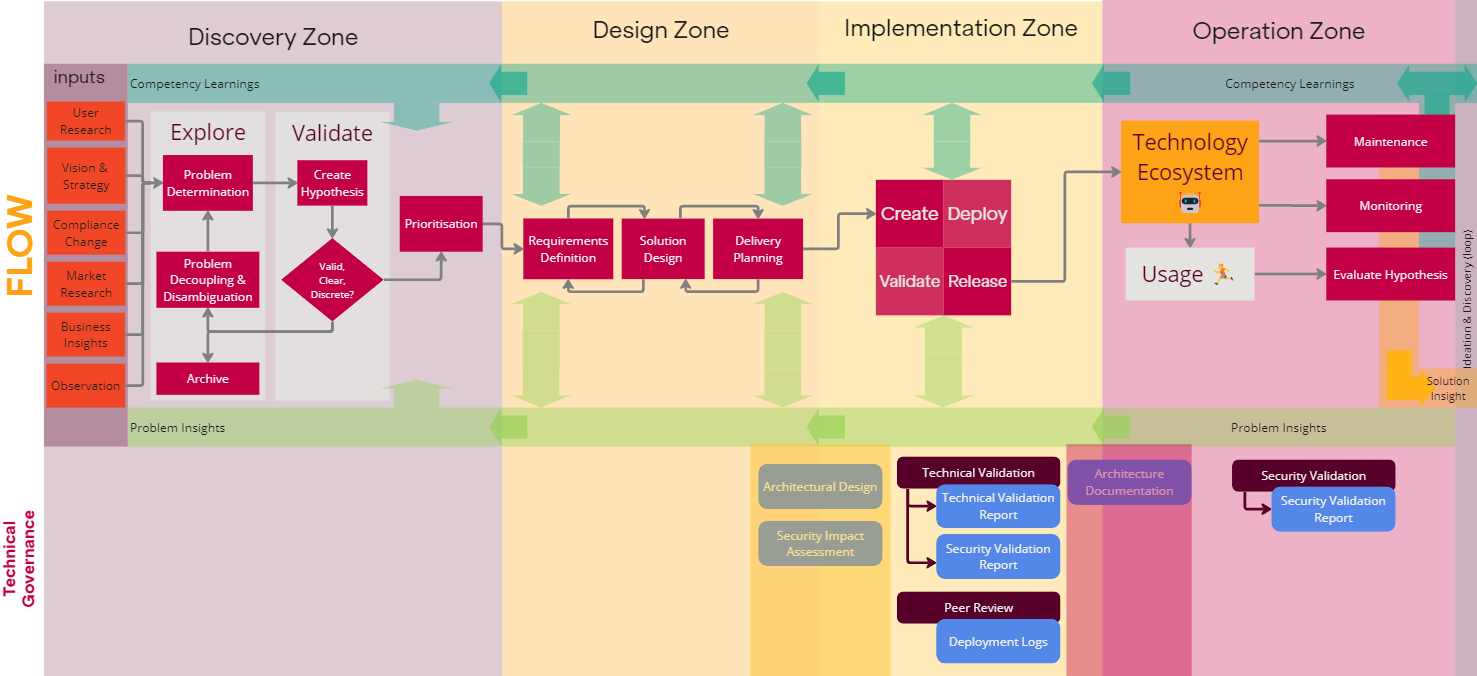
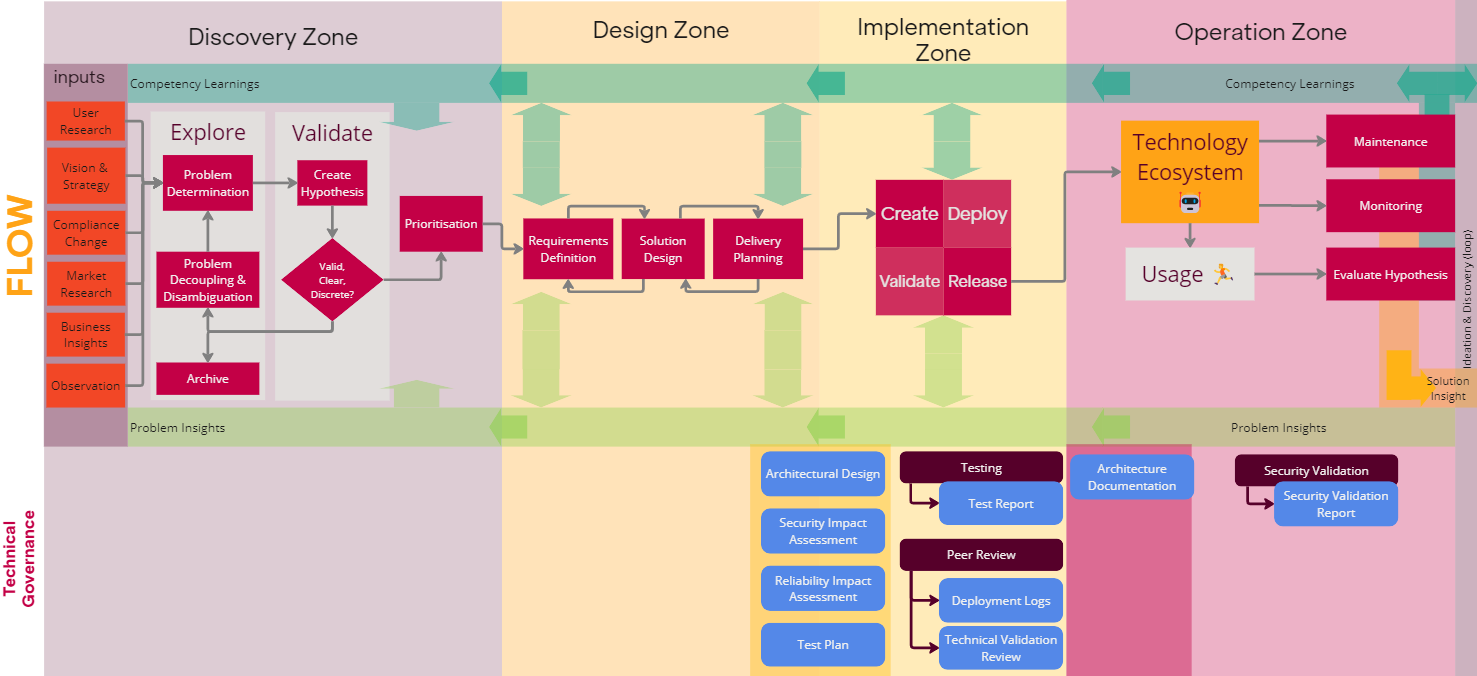
further changes to tech gov

Changed region(s): [[0.4983, 0.0, 0.8097, 1.0], [0.8409, 0.6524, 0.9655, 0.8077], [0.7786, 0.0311, 0.9343, 0.0621]]

diff --git a/docs/Ways-of-Working/Governance/Technology-Governance/Code-Peer-Review.md b/docs/Ways-of-Working/Governance/Technology-Governance/Code-Peer-Review.md
@@ -1,14 +1,24 @@
 ---
-title: Code Peer Review
+title: Implementation Peer Review
 ---
 
 ## Objective
 
-There are other forms of Peer Review, like Solution Design Peer Review and [Technical Validation Review](Technical-Validation-Review.md), but in this instance we're talking about Code Peer Review. 
+Implementation Peer Reviews ensure that changes to production system meet required quality, security and reliability standards and is aligned with the technical design of the solution.  
 
-Every code change to a production system must be reviewed by someone other than the person who implemented that change, and evidence must be retained that this review has been performed.
 
-Reviews, at a minimum, must look to identify critical quality and security flaws, but also serve to reduce knowledge silos and create better solutions.
+## Implementation Peer Review
+
+Every change to a production system must be reviewed at least one additional engineer, other than the person who implemented that change. Evidence must be retained that this review has been performed. 
+
+Reviews, at a minimum, must look to identify quality, security, and reliability flaws, but also serve to reduce knowledge silos and provide a platform to constructively challenge one another and ultimately create better solutions.
+
+Changes to production systems will usually involve code changes, and the review will usually occur before the code changes are merged into the main branch, via a pull request.
+
+However, not all production systems are managed via code. For example, some infrastructure may not be managed via [IAC](https://en.wikipedia.org/wiki/Infrastructure_as_code){ target=default }. Such **"uncoded" changes to production systems are not exempt**, and different techniques may be required for uncoded production system changes.
+
+!!! Info "Types of Peer Review"
+    Peer reviews are used in many settings, for example during [Architectural Design](Architectural-Design.md#peer-review), and the [Technical Validation Review](Technical-Validation-Review.md#objective). 
 
 ## Requirements
 
@@ -30,4 +40,12 @@ Reviews must include:
 | Owner | Responsibility |
 | - | - |
 | Delivery Team     | Are **responsible** for ensuring that all changes are reviewed effectively. |
-| Engineering Owner | Is **responsible** for ensuring that peer review mechanisms are in place and meet the stated requirements, and is **accountable** for the continued adherence to these mechanisms |
+| Engineering Owner | Is **responsible** for ensuring that peer review mechanisms are in place and meet the stated requirements, and is **accountable** for the continued adherence to these mechanisms. 
+| Peer Reviewers    | Are **accountable** for the quality of their review, and **responsible** for ensuring that reviews are thorough and adhere to review guidelines. |
+
+
+#### Toolkit
+
+!!! toolkit "Toolkit"
+
+    <!-- material/tags { include: [Implementation Peer Review] } -->

diff --git a/docs/Ways-of-Working/Governance/Technology-Governance/Technical-Validation-Review.md b/docs/Ways-of-Working/Governance/Technology-Governance/Technical-Validation-Review.md
@@ -4,7 +4,6 @@ title: Technical Validation Review
 
 ## Objective
 
-
 Ensure that large-scale work is periodically reviewed during long-running projects and prior to completion to verify alignment with department-wide best practices and technology strategy by the Principal Engineer.
 
 ## Requirements
@@ -16,19 +15,19 @@ The Principal Engineer must:
 - verify that security practices adhere to the department’s default standards. Any deviations must have been documented.
 - confirm that code practices follow established default patterns. If there are exceptions, ensure justification has been documented.
 
-
 Engineering Owner must:
+
 - collaborate with Principal Engineers to ensure that periodic validation has occurred.
 - take action to address and remediate any identified issues.
 
 
 ## Triggers
 
-- When Architectural Design has been triggered for the start of the project.
+- When Architectural Design has been performed, and an implementation plan has been 
 
 ## Responsibilities
 
 | Owner | Responsibility |
 | - | - |
-| Engineering Owner | Is **responsible** for ensuring that Technical Validation Review before the end of the project, and **accountable** or ensuring that Technical Validation results are action before the end of the project |
-| Principal Engineer| Is **responsible** for ensuring that Technical Validation is actioned and results share with the delivery team |
+| Engineering Owner | Is **responsible** for ensuring that Technical Validation Review is planned and performed before the end of the project, and **accountable** or ensuring that Technical Validation results are actioned before the end of the project. |
+| Principal Engineer| Is **responsible** for performing thorough and timely Technical Validation, providing clear and actionable feedback to the delivery team. |

diff --git a/docs/Ways-of-Working/Toolkit/Security-and-Reliability-Impact-Assessment-Template.md b/docs/Ways-of-Working/Toolkit/Security-and-Reliability-Impact-Assessment-Template.md
@@ -18,8 +18,8 @@ It is the responsibility of the [Engineering Owner](../Governance/Problem-Owners
 ## Solution Project/Feature:
 [_link to design documents / tickets_]
 
-## Technical Owner:
-[_name of technical owner_]
+## Engineering Owner:
+[_name of engineering owner_]
 
 ---
 

diff --git a/docs/Ways-of-Working/Governance/Technology-Governance/Architectural-Design.md b/docs/Ways-of-Working/Governance/Technology-Governance/Architectural-Design.md
@@ -17,6 +17,9 @@ Architectural designs help:
 - ensure use of defaults or rfc where deviating
 - ensure chosen approach is well documented with ADRs
 
+## Peer Review
+
+Architectural designs must be reviewed by relevant technical stakeholders.
 
 ## Responsibilities
 

diff --git a/docs/Ways-of-Working/Toolkit/Peer-Reviewing/index.md b/docs/Ways-of-Working/Toolkit/Peer-Reviewing/index.md
@@ -1,12 +1,8 @@
 ---
-title: Peer Reviewing
-authors: 
-- Dave Arthur
-- Ed Earle
-- Rhodri Hewitson
-reviewed: 
-reviewer:
-next-review: 2021-11-01
+title: Code Peer Reviewing
+tags:
+ - Implementation Peer Review
+ - Default
 ---
 
 ## Overview

diff --git a/docs/Ways-of-Working/Toolkit/Pull-Requests.md b/docs/Ways-of-Working/Toolkit/Pull-Requests.md
@@ -1,11 +1,7 @@
 ---
 title: Pull Requests
-authors: 
-  - Dave Arthur
-  - Rhodri Hewitson
-reviewed: 
-reviewer:
-next-review: 2022-04-01
+tags:
+ - Implementation Peer Review
 ---
 
 ## Pull Requests
